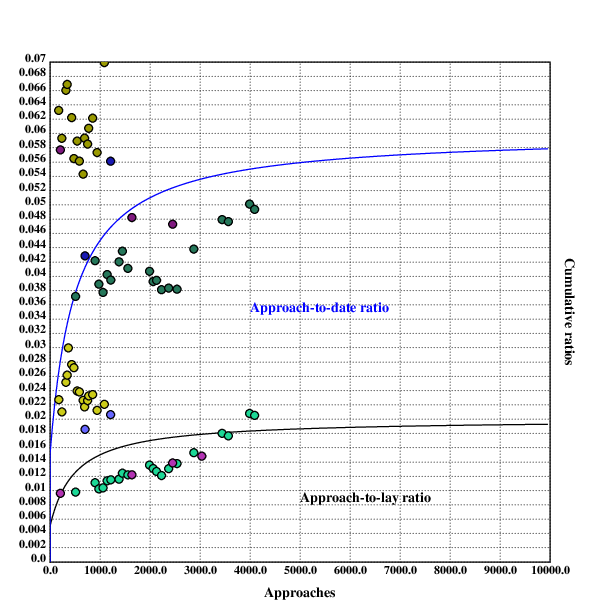
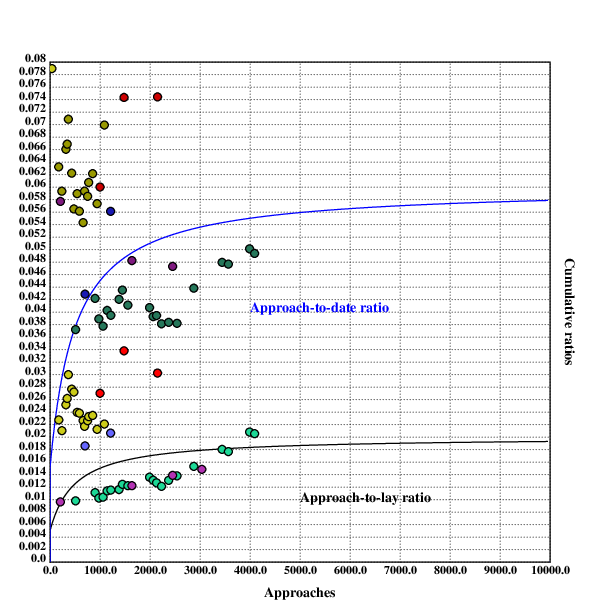
Split up stats in the daygame cost-benefit analysis.

Changed region(s): [[0.031, 0.0931, 0.9003, 0.9003], [0.2484, 0.5899, 0.2794, 0.6209]]

diff --git a/daygame_cost_benefit.md b/daygame_cost_benefit.md
@@ -1,7 +1,7 @@
 [home](./index.md)
 -------------------
 
-*author: niplav, created: 2019-12-25, modified: 2020-02-06, language: english, status: in progress, importance: 4, confidence: remote*
+*author: niplav, created: 2019-12-25, modified: 2020-02-09, language: english, status: in progress, importance: 4, confidence: remote*
 
 > __Is daygame worth it, and if yes, how much? I first present a simple
 > point-estimate cost-benefit value estimation written in Klong and find
@@ -182,6 +182,9 @@ and later was split into "first date", "second date" etc. For simplicity I
 assume that in the beginning, "dates" simply referred to "first date". It
 still seems to be coherent.
 
+Note that these numbers are just stats some guys wrote on the internet,
+usual qualifiers about the accuracy of these values apply.
+
 #### Roy Walker
 
 [Roy Walker](https://roywalkerdaygame.wordpress.com/):
@@ -305,76 +308,124 @@ of dates, so that is omitted):
 
 #### Krauser
 
-[Krauser](https://krauserpua.com/):
+[Krauser](https://krauserpua.com/) (who started sometime in 2009,
+I believe, so these numbers are after several years of training):
 
 * [2013](https://krauserpua.com/2014/01/01/my-2013-daygame-stats/)
 * [2014](https://krauserpua.com/2015/01/03/my-2014-daygame-stats/)
 * [2015](https://krauserpua.com/2016/01/02/my-2015-daygame-stats/)
 
+> Most of these numbers rely upon estimates because I didn’t keep notes.
+
+*–[Nick Krauser](https://krauserpua.com/), [“My 2013 Daygame Stats”](https://krauserpua.com/2014/01/01/my-2013-daygame-stats/), 2014*
+
+Lay ratios:
+
+	klay::[[1000 27][1480 50][2150 65]]
+	klayrat::{(*x),%/|x}'klay
+
+Date ratios:
+
+	kdate::[[1000 60][1480 110][2150 160]]
+	kdaterat::{(*x),%/|x}'kdate
+
 #### Visualizing the Data
 
-The plotted data looks like this:
+* Green: Roy Walker
+* Beige: Seven
+* Blue: Mr. White
+* Purple: Thomas Crown
+* Red: Krauser
+
+The plotted data for lay ratios looks like this:
 
 	.l("./load.kg")
 	.l("./data.kg")
 
 	.l("nplot")
 
-	grid([0 10000 1000];[0 0.07 0.002])
+	grid([0 10000 1000];[0 0.04 0.002])
 	xtitle("Approaches")
 	ytitle("Cumulative ratios")
 
 	plot(ratio)
 	text(250;60;"Approach-to-lay ratio")
 
-	setrgb(0;0;1)
-	plot(dateratio)
-	text(200;250;"Approach-to-date ratio")
-
-	setdot(3)
+	setdot(4)
 
 	:"Data for Roy Walker ratios"
 
 	fillrgb(0.109;0.847;0.588)
 	scplot2(rwlayrat)
 
-	fillrgb(0.047;0.368;0.254)
-	scplot2(rwdaterat)
-
 	:"Data for Mr. White ratios"
 
 	fillrgb(0.4;0.4;1)
 	scplot2(mwlayrat)
 
-	fillrgb(0;0;0.6)
-	scplot2(mwdaterat)
-
-	:"Data for Thomas Crown"
+	:"Data for Thomas Crown ratios"
 
 	fillrgb(0.7;0.2;0.7)
 	scplot2(tclayrat)
-
-	fillrgb(0.5;0.1;0.5)
-	scplot2(tcdaterat)
 
 	:"Data for Seven ratios"
 
 	fillrgb(0.8;0.8;0.1)
 	scplot2(slayrat)
 
-	fillrgb(0.6;0.6;0)
-	scplot2(sdaterat)
+	:"Data for Krauser ratios"
+
+	fillrgb(1;0;0)
+	scplot2(klayrat)
 
 	draw()
 
-![Empirical data for the cumulative value of ratios over time](./img/daygame_cost_benefit/ratio_data.png "Empirical data for the cumulative value of ratios over time.")
+![Empirical data for the cumulative value of lay-ratios over time](./img/daygame_cost_benefit/layratio_data.png "Empirical data for the cumulative value of lay-ratios over time.")
 
-Data for lay ratios is lighter, data for date ratios is darker.
+Similarly, the data for reported date ratios:
 
-* Green: Roy Walker
-* Beige: Seven
-* Blue: Mr. White
-* Purple: Thomas Crown
+	.l("./load.kg")
+	.l("./data.kg")
+
+	.l("nplot")
+
+	grid([0 10000 1000];[0 0.08 0.002])
+	xtitle("Approaches")
+	ytitle("Cumulative ratios")
+
+	plot(dateratio)
+	text(200;250;"Approach-to-date ratio")
+
+	setdot(4)
+
+	:"Data for Roy Walker ratios"
+
+	fillrgb(0.109;0.847;0.588)
+	scplot2(rwdaterat)
+
+	:"Data for Mr. White ratios"
+
+	fillrgb(0.4;0.4;1)
+	scplot2(mwdaterat)
+
+	:"Data for Thomas Crown ratios"
+
+	fillrgb(0.7;0.2;0.7)
+	scplot2(tcdaterat)
+
+	:"Data for Seven ratios"
+
+	fillrgb(0.8;0.8;0.1)
+	scplot2(sdaterat)
+
+	:"Data for Krauser ratios"
+
+	fillrgb(1;0;0)
+	scplot2(kdaterat)
+
+	draw()
+
+![Empirical data for the cumulative value of date-ratios over time](./img/daygame_cost_benefit/dateratio_data.png "Empirical data for the cumulative value of date-ratios over time.")
 
 A Simple Model
 --------------
@@ -681,11 +732,13 @@ impact they could have.
 
 ### Additional Benefits
 
-#### Flowthrough Benefits
+#### Positive Side-Effects
 
 #### Mental Benefit
 
 ### Additional Costs
+
+#### Fixed Costs
 -->
 
 Conclusion

diff --git a/todo.md b/todo.md
@@ -660,6 +660,7 @@ Programming
 
 	* nstat
 		* n% confidence interval
+		* polynomial/exponential/logarithmic (?) fit for a dataset
 	* Range is extremely slow for anything but integers, why?
 	* error with klong: `#'s58'!40` returns `kg: error: call: type error: [6 :triad %call1 %pop1]`
 		* bug, report
